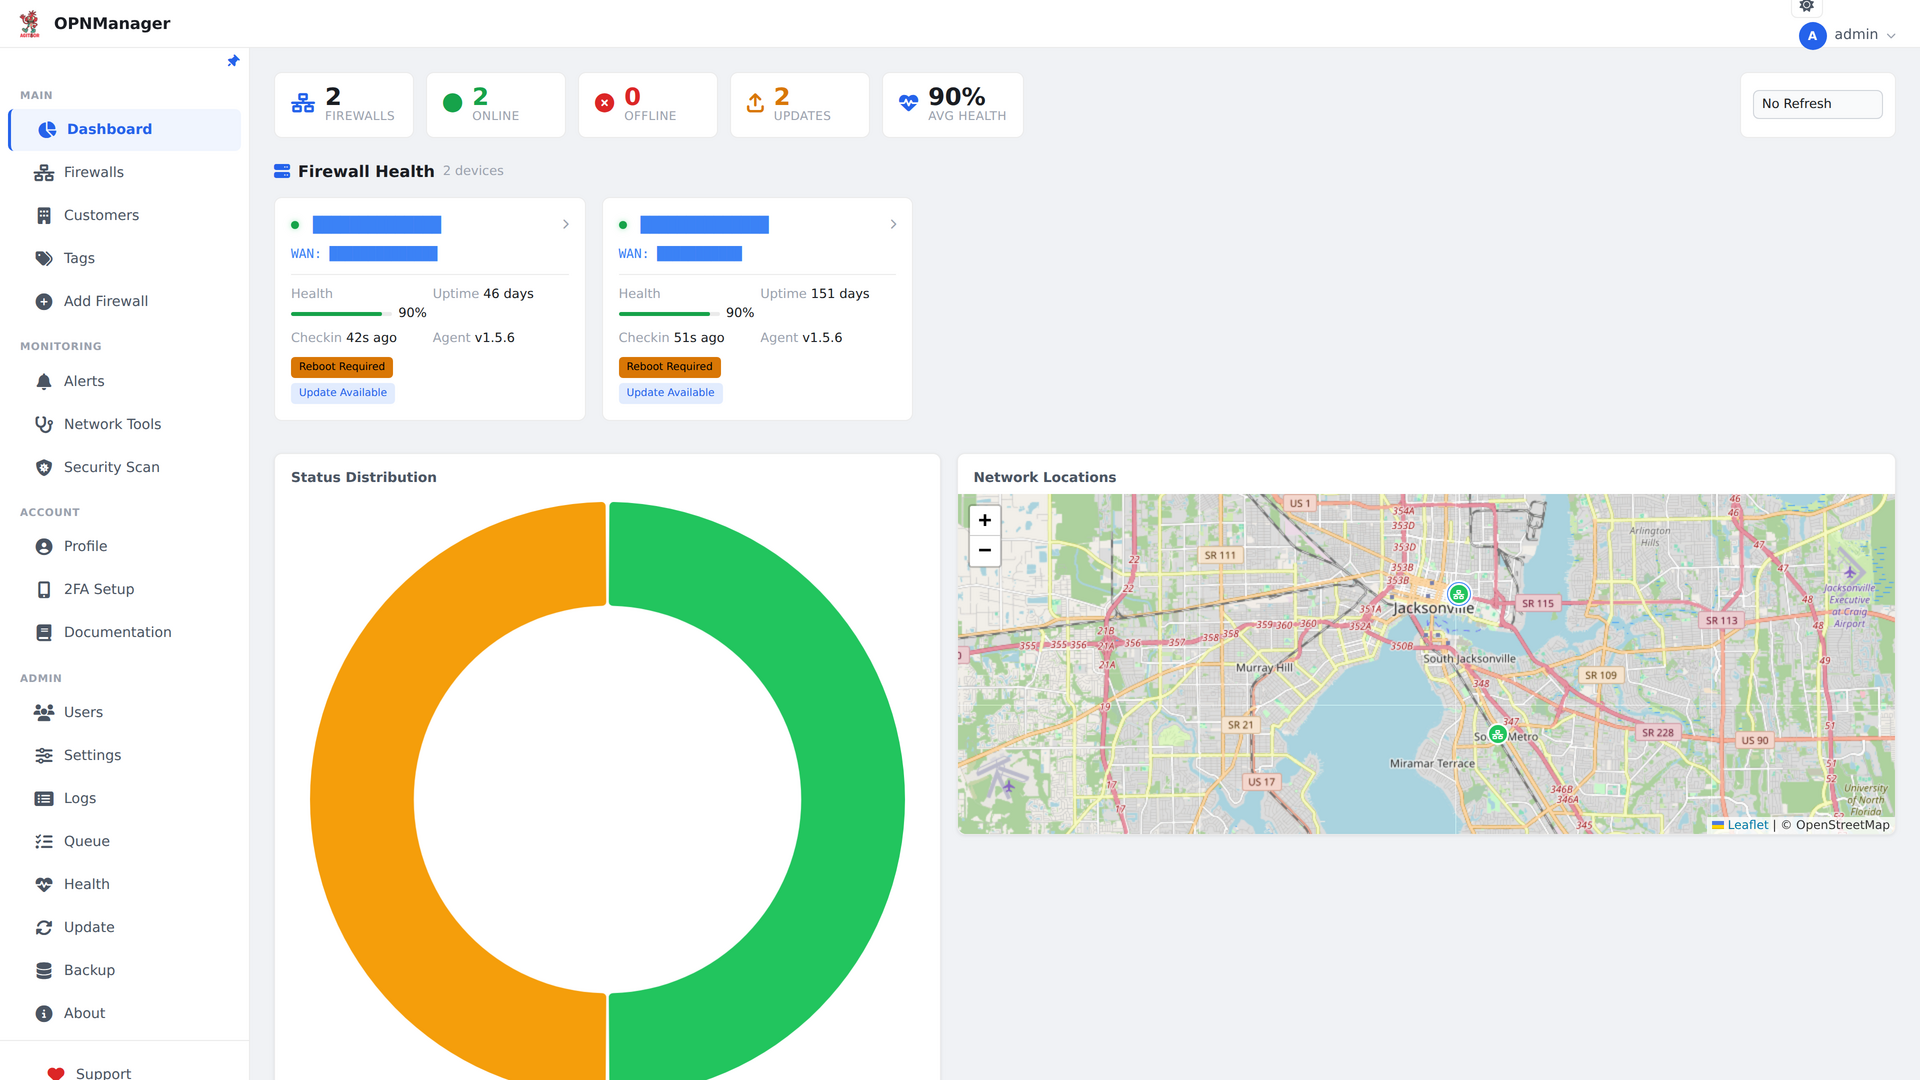
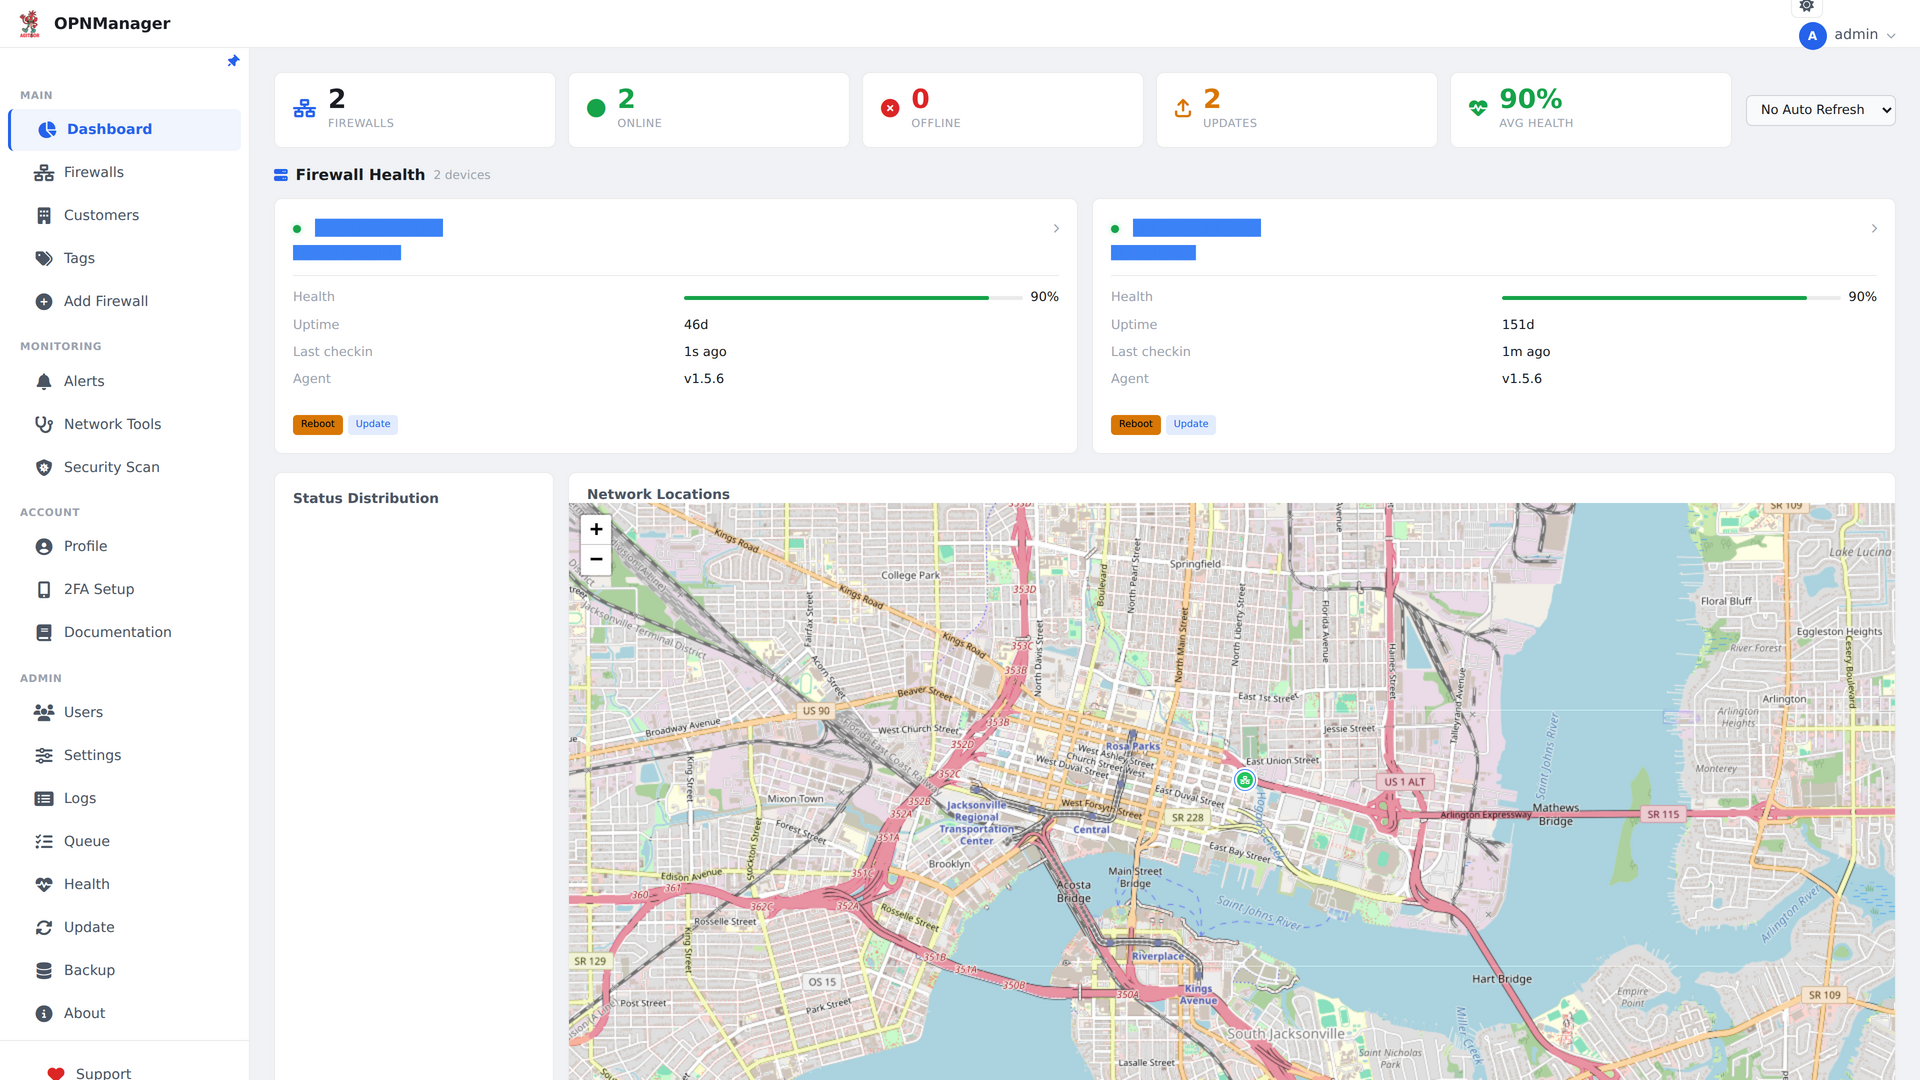
Update screenshots for new full-width dashboard layout

diff --git a/take_screenshots.js b/take_screenshots.js
@@ -1,0 +1,93 @@
+const puppeteer = require('puppeteer');
+const URL = 'https://opn.agit8or.net';
+const OUT = '/home/administrator/opnsense/screenshots';
+async function sleep(ms) { return new Promise(r => setTimeout(r, ms)); }
+
+async function blur(page) {
+    await page.evaluate(() => {
+        const pats = [/\b\d{1,3}\.\d{1,3}\.\d{1,3}\.\d{1,3}\b/,/[0-9a-fA-F]{4}:[0-9a-fA-F:]+/,/home\.agit8or\.net/i,/fw\.agit8or\.net/i,/opn\.agit8or\.net/i,/agit8or/i];
+        function walk(n){if(n.nodeType===3){let t=n.textContent,c=false;for(const p of pats){const g=new RegExp(p.source,'gi');if(g.test(t)){c=true;t=t.replace(new RegExp(p.source,'gi'),m=>'\u2588'.repeat(Math.min(m.length,14)));}}if(c){const s=document.createElement('span');s.textContent=t;s.style.color='#3b82f6';s.style.fontFamily='monospace';n.parentNode.replaceChild(s,n);}}else if(n.nodeType===1&&!['SCRIPT','STYLE','NOSCRIPT'].includes(n.tagName)){Array.from(n.childNodes).forEach(walk);}}
+        walk(document.body);
+    });
+}
+
+async function pinSidebar(page) {
+    await page.evaluate(() => { var s=document.getElementById('sidebar'); if(s){s.classList.add('pinned','expanded');document.body.setAttribute('data-sidebar-pinned','true');} });
+    await sleep(300);
+}
+async function setTheme(page, t) {
+    await page.evaluate((th) => { document.documentElement.setAttribute('data-theme',th); document.documentElement.setAttribute('data-bs-theme',th); }, t);
+    await sleep(300);
+}
+
+(async () => {
+    const browser = await puppeteer.launch({ headless:true, args:['--no-sandbox','--ignore-certificate-errors'], ignoreHTTPSErrors:true });
+    const page = await browser.newPage();
+    await page.setViewport({ width:1920, height:1080, deviceScaleFactor:2 });
+
+    // Login
+    await page.goto(URL+'/login.php', { waitUntil:'domcontentloaded', timeout:15000 });
+    await sleep(800);
+
+    // 1: Login dark
+    console.log('1/9 Login');
+    await setTheme(page,'dark');
+    await page.screenshot({ path: OUT+'/01-login.png' });
+
+    await page.type('#username','admin');
+    await page.type('#password','Chin00k2023###');
+    await page.click('button[type="submit"]');
+    await sleep(3000);
+
+    // 2: Dashboard dark pinned
+    console.log('2/9 Dashboard');
+    await page.goto(URL+'/dashboard.php', { waitUntil:'domcontentloaded', timeout:15000 });
+    await sleep(4000);
+    await setTheme(page,'dark'); await pinSidebar(page); await blur(page);
+    await page.screenshot({ path: OUT+'/02-dashboard.png' });
+
+    // 3: Dashboard full
+    console.log('3/9 Dashboard full');
+    await page.screenshot({ path: OUT+'/02b-dashboard-full.png', fullPage:true });
+
+    // 4: Firewalls
+    console.log('4/9 Firewalls');
+    await page.goto(URL+'/firewalls.php', { waitUntil:'domcontentloaded', timeout:15000 });
+    await sleep(2000); await setTheme(page,'dark'); await pinSidebar(page); await blur(page);
+    await page.screenshot({ path: OUT+'/03-firewalls.png' });
+
+    // 5: Firewall details
+    console.log('5/9 FW details');
+    await page.goto(URL+'/firewall_details.php?id=51', { waitUntil:'domcontentloaded', timeout:15000 });
+    await sleep(3000); await setTheme(page,'dark'); await pinSidebar(page); await blur(page);
+    await page.screenshot({ path: OUT+'/04-firewall-details.png' });
+
+    // 6: Users
+    console.log('6/9 Users');
+    await page.goto(URL+'/users.php', { waitUntil:'domcontentloaded', timeout:15000 });
+    await sleep(1500); await setTheme(page,'dark'); await pinSidebar(page); await blur(page);
+    await page.screenshot({ path: OUT+'/05-users.png' });
+
+    // 7: Settings
+    console.log('7/9 Settings');
+    await page.goto(URL+'/settings.php', { waitUntil:'domcontentloaded', timeout:15000 });
+    await sleep(1500); await setTheme(page,'dark'); await pinSidebar(page); await blur(page);
+    await page.screenshot({ path: OUT+'/06-settings.png' });
+
+    // 8: Sidebar collapsed
+    console.log('8/9 Collapsed');
+    await page.goto(URL+'/dashboard.php', { waitUntil:'domcontentloaded', timeout:15000 });
+    await sleep(3000); await setTheme(page,'dark');
+    await page.evaluate(() => { var s=document.getElementById('sidebar'); if(s){s.classList.remove('pinned','expanded');document.body.setAttribute('data-sidebar-pinned','false');} });
+    await sleep(300); await blur(page);
+    await page.screenshot({ path: OUT+'/07-sidebar-collapsed.png' });
+
+    // 9: Light mode
+    console.log('9/9 Light');
+    await page.goto(URL+'/dashboard.php', { waitUntil:'domcontentloaded', timeout:15000 });
+    await sleep(3000); await setTheme(page,'light'); await pinSidebar(page); await blur(page);
+    await page.screenshot({ path: OUT+'/08-light-mode.png' });
+
+    await browser.close();
+    console.log('Done');
+})();
